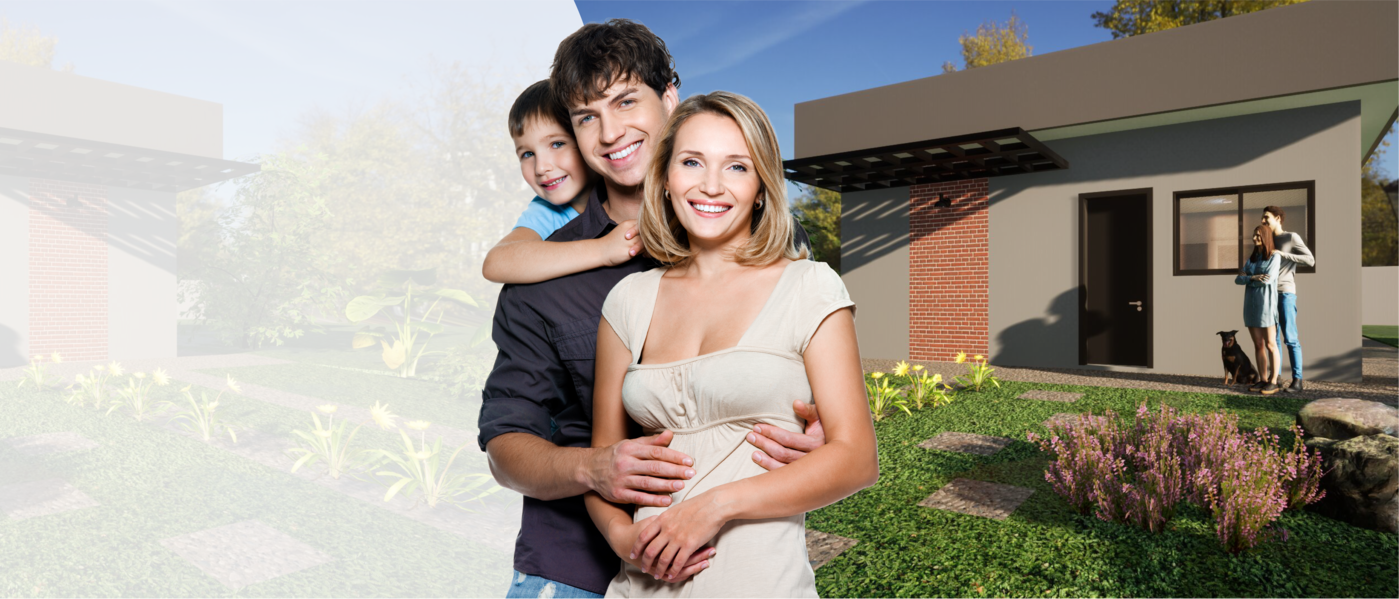
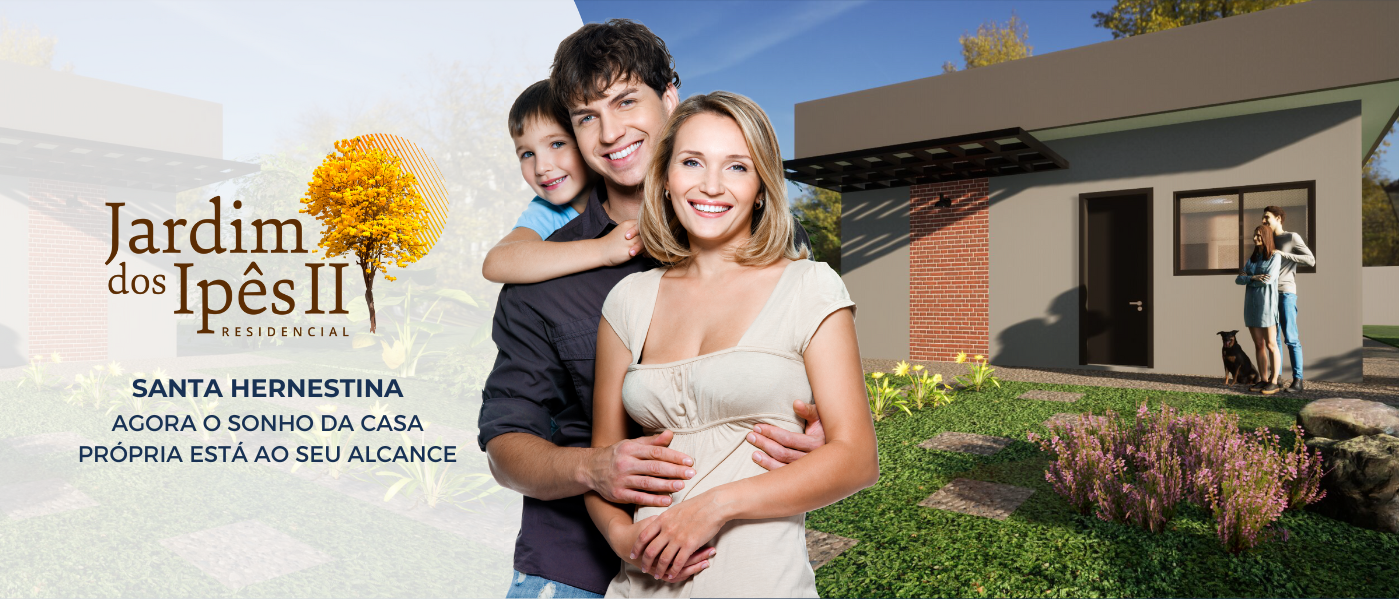
commit

diff --git a/assets/css/index.css b/assets/css/index.css
@@ -1,69 +1,156 @@
-.title-slide{
-    color: #183153;
-    font-size: 24px;
-    font-weight: 900px;
-    text-transform: uppercase;
-    text-align: start;
+@import url('https://fonts.googleapis.com/css2?family=Montserrat:ital,wght@0,100..900;1,100..900&display=swap');
+
+*{
+    font-family: "Montserrat", sans-serif;
 }
 
-.text-slide{
-    color: #183153;
-    font-size: 24px;
-    font-weight: 600;
-    text-transform: uppercase;
-}
-
-.logo-slide{
-    display: block;
-    align-items: start;
-    width: 400px;
-    padding-bottom: 50px;
-}
-.btn-slide{
-    color: white;
-    font-size: 24px;
-    font-weight: 800px;
-    background-color: #183153;
-    border-radius: 20px;
-    border: none;
-    padding: 2px 50px;
-    margin-bottom: 40px;
-    display: block;
-    align-items: start;
+.carousel-mobile{
+    display: none;
 }
 
 section{
     background-image: url("../img/sobre-nos.png");
     background-size: cover;
-    padding-top: 250px;
-    padding-bottom: 250px;
 }
 
 .sobre{
-    margin-right: 55%;
+    margin-right: 50%;
     margin-left: 8rem;
 }
 
 .sobre h2{
-    font-size: 52px;
+    font-size: 60px;
     font-weight: 700;
-    color: #183153;
+    color: rgb(68, 68, 68);
     margin-bottom: 40px;
+    padding-top: 80px;
 }
 
 .sobre p{
-    font-size: 20px;
+    font-size: 32px;
     font-weight: 500;
+    color: rgb(68, 68, 68);;
 }
 
 .sobre .btn-sobre{
     color: white;
-    font-size: 24px;
-    font-weight: 800px;
+    font-size: 40px;
+    font-weight: bolder;
     background-color: #183153;
-    border-radius: 20px;
+    border-radius: 40px;
     border: none;
-    padding: 2px 50px;
-   margin-top: 50px;
+    padding: 6px 90px;
+    margin-top: 50px;
+    margin-bottom: 50px;
    
+}
+@media(max-width: 1440px){
+
+    .sobre{
+        margin-right: 47%;
+        margin-left: 8rem;
+    }
+
+    section{
+        background-size: cover;
+        background-repeat: no-repeat;
+    }
+
+    .sobre h2{
+        font-size: 46px;
+        padding-top: 50px;
+    }
+
+    .sobre p{
+        font-size: 24px;
+    }
+
+    .sobre .btn-sobre{
+        font-size: 20px;
+        margin-bottom: 50px;
+    }
+}
+
+@media(max-width: 1024px){
+    
+    .sobre{
+        margin-right: 45%;
+        margin-left: 2rem;
+    }
+
+    .sobre h2{
+        font-size: 46px;
+        font-weight: 700;
+        margin-bottom: 40px;
+    }
+    
+
+    .sobre p{
+        font-size: 16px;
+        font-weight: 500;
+    }
+
+    .sobre .btn-sobre{
+        color: white;
+        font-size: 22px;
+        font-weight: 800px;
+        border-radius: 30px;
+        border: none;
+        padding: 2px 50px;
+        margin-top: 50px;
+       
+    }
+
+}
+
+@media(max-width: 768px){
+
+    .carousel-pc{
+        display: none;
+    }
+
+    .carousel-mobile{
+        display: block;
+    }
+
+    section{
+        display: block;
+        align-items: center;
+    }
+
+    .sobre{
+        margin-right: 100%;
+        margin-left: 2rem;
+        margin-right: 2rem;
+        display: block;
+    }
+
+    .sobre h2{
+        font-size: 40px;
+        font-weight: 700;
+        margin-bottom: 20px;
+        text-align: center;
+    }
+
+    .sobre p{
+        font-size: 22px;
+        font-weight: 500;
+        text-align: center;
+       
+    }
+
+    .btn-sobre{
+        font-size: 32px;
+        font-weight: 800px;
+        border-radius: 30px;
+        border: none;
+        margin-top: 30px;
+        text-align: center;
+        padding: 2px 50px;
+    }
+
+    section button{
+        align-items: center;
+    }
+
 }

diff --git a/assets/css/header.css b/assets/css/header.css
@@ -1,8 +1,10 @@
-@import url('https://fonts.googleapis.com/css2?family=Inter:wght@200;300;400;500&display=swap');
+
+@import url('https://fonts.googleapis.com/css2?family=Montserrat:ital,wght@0,100..900;1,100..900&display=swap');
+
 * {
     padding: 0;
     margin: 0;
-    font-family: 'Inter', sans-serif;
+    font-family: "Montserrat", sans-serif;
 }
 
 header {
@@ -76,6 +78,16 @@ header {
     display: none;
 }
 
+@media screen and (max-width: 1170px){
+    .logo img{
+        width: 200px;
+    }
+
+    .nav-bar{
+        padding: 1.5rem 2rem;
+    }
+} 
+
 @media screen and (max-width: 993px) {
 
     .logo img{
@@ -140,12 +152,12 @@ header {
     }
 }
 
-@media screen and (max-width: 430px){
+@media screen and (max-width: 1170px){
     .logo img{
-        width: 200px;
+        width: 250px;
     }
 
     .nav-bar{
-        padding: 1.5rem 2rem;
+        padding: 1.5rem 1.5rem;
     }
 } 

diff --git a/index.php b/index.php
@@ -12,61 +12,73 @@
 <body>
 
 <?php include_once ("header.php") ?>    
+
+    <!-- carousel pc -->
         
-    <div class="bd-example">
-        <div id= "container  carouselExampleCaptions" class="carousel slide" data-ride="carousel">
-            <ol class="carousel-indicators">
-            <li data-target="#carouselExampleCaptions" data-slide-to="0" class="active"></li>
-            <li data-target="#carouselExampleCaptions" data-slide-to="1"></li>
-            <li data-target="#carouselExampleCaptions" data-slide-to="2"></li>
-            </ol>
-            <div class="carousel-inner">
-                <div class="banner carousel-item active">
-                    <img src="assets/img/banner1.png" class=" d-block w-100" data-src="holder.js/800x400?auto=yes&amp;bg=777&amp;fg=555&amp;text=Primeiro Slide" alt="Primeiro Slide" />
-                    <div class="
-                    content-banner carousel-caption d-none d-md-block">
-                        <img class="logo-slide" src="assets/img/logo_california.png" alt="">
-                        <h1 class="title-slide">santa HERNESTINA</h5>
-                        <p class="text-slide">AGORA O SONHO DA CASA <br> PRÓPRIA ESTÁ AO SEU ALCANCE</p>
-                        <button class="btn-slide">SAIBA MAIS</button>
-                    </div>
-                </div>
-                <div class="banner carousel-item">
-                    <img src="assets/img/banner2.png" class="d-block w-100" data-src="holder.js/800x400?auto=yes&amp;bg=666&amp;fg=444&amp;text=Segundo Slide" alt="Segundo Slide" />
-                    <div class=" content-banner carousel-caption d-none d-md-block">
-                        <img class="logo-slide"  src="assets/img/logo_ipes.png" alt="">
-                        <h1 class="title-slide">DOBRADA</h5>
-                        <p class="text-slide">AGORA O SONHO DA CASA <br> PRÓPRIA ESTÁ AO SEU ALCANCE</p>
-                        <button class="btn-slide">SAIBA MAIS</button>
-                    </div>
-                    
-                </div>
+    <div id="carouselExampleIndicators" class="carousel slide carousel-pc" data-ride="carousel">
+        <ol class="carousel-indicators">
+            <li data-target="#carouselExampleIndicators" data-slide-to="0" class="active"></li>
+            <li data-target="#carouselExampleIndicators" data-slide-to="1"></li>
+        </ol>
+        <div class="carousel-inner">
+            <div class="carousel-item active">
+                <img class="d-block w-100" src="assets/img/banner1.png" alt="Primeiro Slide">
             </div>
-            
-            <a class="carousel-control-prev" href="#carouselExampleCaptions" role="button" data-slide="prev">
+            <div class="carousel-item">
+                <img class="d-block w-100" src="assets/img/banner2.png" alt="Segundo Slide">
+            </div>
+        </div>
+        <a class="carousel-control-prev" href="#carouselExampleIndicators" role="button" data-slide="prev">
             <span class="carousel-control-prev-icon" aria-hidden="true"></span>
             <span class="sr-only">Anterior</span>
-            </a>
-            <a class="carousel-control-next" href="#carouselExampleCaptions" role="button" data-slide="next">
+        </a>
+        <a class="carousel-control-next" href="#carouselExampleIndicators" role="button" data-slide="next">
             <span class="carousel-control-next-icon" aria-hidden="true"></span>
             <span class="sr-only">Próximo</span>
-            </a>
-        </div>
+        </a>
     </div>
 
+    <!-- Carousel-Mobile -->
+
+    <div id="carouselExampleIndicators" class="carousel slide carousel-mobile" data-ride="carousel">
+        <ol class="carousel-indicators">
+            <li data-target="#carouselExampleIndicators" data-slide-to="0" class="active"></li>
+            <li data-target="#carouselExampleIndicators" data-slide-to="1"></li>
+        </ol>
+        <div class="carousel-inner">
+            <div class="carousel-item active">
+                <img class="d-block w-100" src="assets/img/banner1-mobile.png" alt="Primeiro Slide">
+            </div>
+            <div class="carousel-item">
+                <img class="d-block w-100" src="assets/img/banner2-mobile.png" alt="Segundo Slide">
+            </div>
+        </div>
+        <a class="carousel-control-prev" href="#carouselExampleIndicators" role="button" data-slide="prev">
+            <span class="carousel-control-prev-icon" aria-hidden="true"></span>
+            <span class="sr-only">Anterior</span>
+        </a>
+        <a class="carousel-control-next" href="#carouselExampleIndicators" role="button" data-slide="next">
+            <span class="carousel-control-next-icon" aria-hidden="true"></span>
+            <span class="sr-only">Próximo</span>
+        </a>
+    </div>
+<script src="https://code.jquery.com/jquery-3.3.1.slim.min.js" integrity="sha384-q8i/X+965DzO0rT7abK41JStQIAqVgRVzpbzo5smXKp4YfRvH+8abtTE1Pi6jizo" crossorigin="anonymous"></script>
+<script src="https://cdnjs.cloudflare.com/ajax/libs/popper.js/1.14.3/umd/popper.min.js" integrity="sha384-ZMP7rVo3mIykV+2+9J3UJ46jBk0WLaUAdn689aCwoqbBJiSnjAK/l8WvCWPIPm49" crossorigin="anonymous"></script>
+<script src="https://stackpath.bootstrapcdn.com/bootstrap/4.1.3/js/bootstrap.min.js" integrity="sha384-ChfqqxuZUCnJSK3+MXmPNIyE6ZbWh2IMqE241rYiqJxyMiZ6OW/JmZQ5stwEULTy" crossorigin="anonymous"></script>
+   
     <section>
         <div class="sobre">
             <h2>Quem somos</h2>
             <p>A Engeteg construtora é uma empresa que atua no ramo da construção civil, oferecendo soluções completas e integradas para os seus clientes.<br>A contrutora também se preocupa com o meio ambiente e a responsabilidade social, adotando práticas sistentáveis e apoiando projetos sociais nas comunidades onde atua. A Engeteg construtora é uma empresa que constrói mais do que obras, constrói sonhos</p>
-            <button class="btn-sobre">SAIBA MAIS</button>
+            <p>
+                <button class="btn-sobre">SAIBA MAIS</button>
+            </p>
         </div>
 
     </section>
 
 
-<script src="https://code.jquery.com/jquery-3.3.1.slim.min.js" integrity="sha384-q8i/X+965DzO0rT7abK41JStQIAqVgRVzpbzo5smXKp4YfRvH+8abtTE1Pi6jizo" crossorigin="anonymous"></script>
-<script src="https://cdnjs.cloudflare.com/ajax/libs/popper.js/1.14.3/umd/popper.min.js" integrity="sha384-ZMP7rVo3mIykV+2+9J3UJ46jBk0WLaUAdn689aCwoqbBJiSnjAK/l8WvCWPIPm49" crossorigin="anonymous"></script>
-<script src="https://stackpath.bootstrapcdn.com/bootstrap/4.1.3/js/bootstrap.min.js" integrity="sha384-ChfqqxuZUCnJSK3+MXmPNIyE6ZbWh2IMqE241rYiqJxyMiZ6OW/JmZQ5stwEULTy" crossorigin="anonymous"></script>
+
 
 </body>
 </html>
